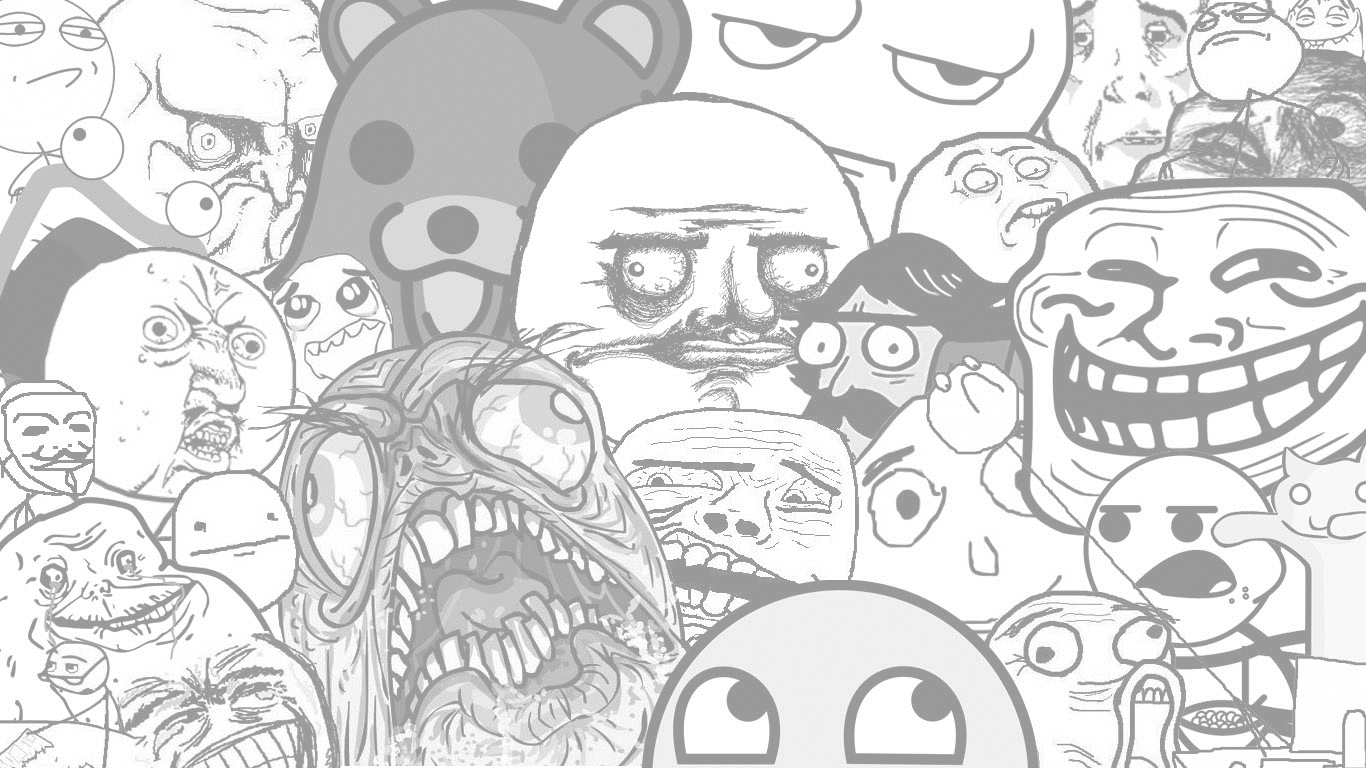
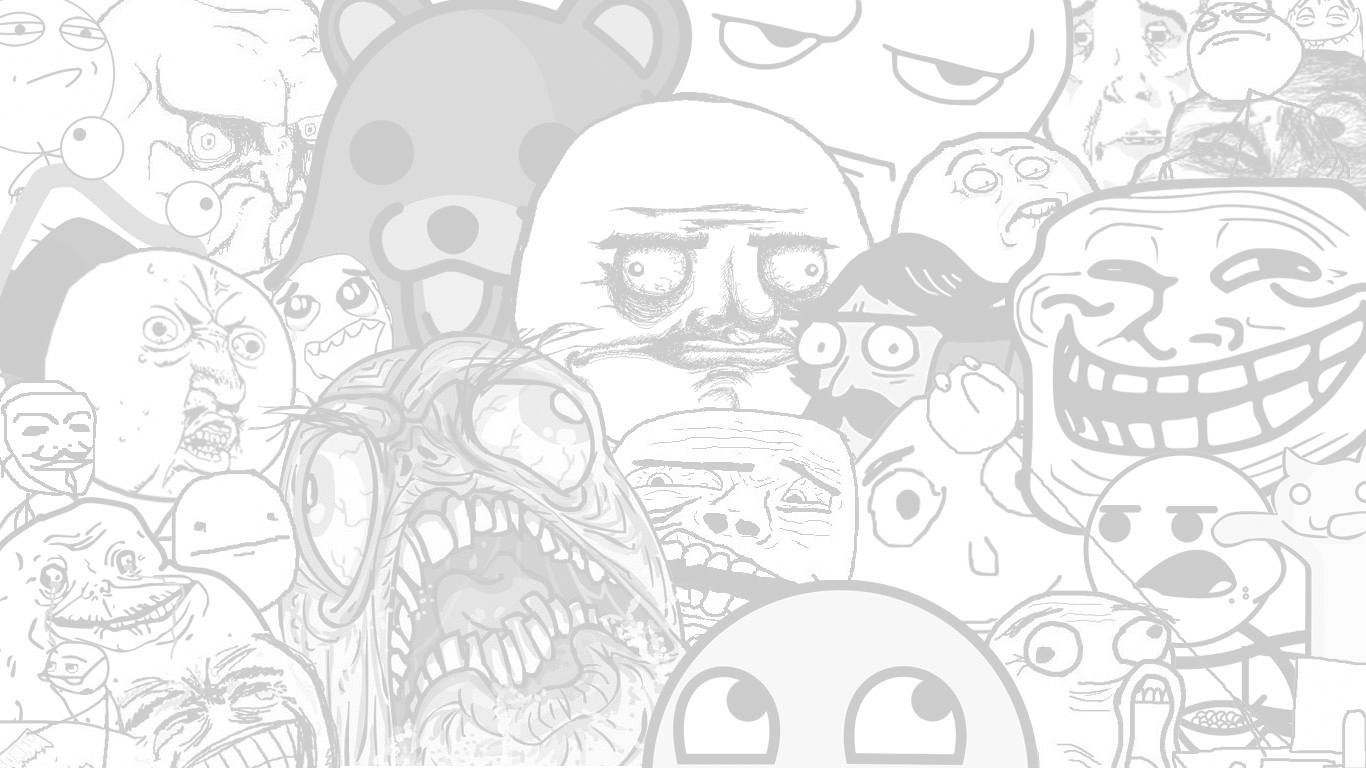
corrections to register form styling

diff --git a/public/app/views/register.html b/public/app/views/register.html
@@ -46,18 +46,10 @@
                     </div>
                     <div class="form-group">
                         <label class="control-label col-sm-2">profile pic:</label>
-                        <div class="sol-sm-10">
-                            <!--label class="btn btn-default btn-file" style="top:10px;left:5%;border:0;">
-                                <i class="fa fa-fw fa-camera"></i><input type="file" ngf-select ng-model="regData.picture" name="file"
-                                accept="image/*" ngf-max-size="2MB" required
-                                ngf-model-invalid="errorFile">
-                            </label-->
+                        <div class="col-sm-10">
                             <div ngf-drop ng-model="regData.picture" ngf-pattern="image/*" class="cropArea">
                                 <img-crop image="regData.picture  | ngfDataUrl" result-image="croppedDataUrl" ng-init="croppedDataUrl=''"></img-crop>
                             </div>
-                            <!--div>
-                                <img ng-src="{{croppedDataUrl}}" />
-                            </div-->
                         </div>
                     </div>
                     <div class="form-group">

diff --git a/public/app/views/password-forgot.html b/public/app/views/password-forgot.html
@@ -1,0 +1,26 @@
+<div class="row">
+    <div class="col-md-6 col-md-offset-3" style="padding-top:15%;">
+        <div class="panel panel-info">
+            <div class="panel-heading">
+                <div class="panel-title">Sign in</div>
+            </div>
+            <div class="panel-body">
+                <form class="form-horizontal" ng-submit="recoverPassword()" novalidate>
+                    <div class="form-group">
+                        <label class="control-label col-sm-2" for="">email:</label>
+                        <div class="col-sm-10">
+                            <input class="form-control" type="email" name="email" ng-model="email">
+                        </div>
+                    </div>
+                    <div class="form-group">
+                        <div class="col-sm-offset-2 col-sm-10">
+                            <button type="submit" class="btn btn-primary">Send me a reminder</button>
+                        </div>
+                    </div>
+                </form>
+                <hr>
+                Don't have an account? <a href="/#/register">Sign up here</a>
+            </div>
+        </div>
+    </div>
+</div>

diff --git a/public/app/app.js b/public/app/app.js
@@ -63,6 +63,14 @@ app.config(function($stateProvider, $urlRouterProvider, $authProvider) {
                 skipIfLoggedIn: skipIfLoggedIn
             }
         })
+        .state('passwordForgot', {
+            url: '/forgot-password',
+            templateUrl: 'app/views/password-forgot.html',
+            controller: 'PasswordForgotController as PasswordForgot',
+            resolve: {
+                skipIfLoggedIn: skipIfLoggedIn
+            }
+        })
         .state('logout', {
             url: '/logout',
             templateUrl: null,
@@ -142,7 +150,7 @@ app.controller('MemefyController', function($scope, $auth, $state, $http, Upload
         });
     };
 
-    $scope.likePost = function(postId) {
+    $scope.likes = function(postId) {
         
     };
 
@@ -222,7 +230,11 @@ app.controller('RegisterController', function($scope, $http, $auth, $state, Uplo
                 $scope.progress = parseInt(100.0 * evt.loaded / evt.total);
             });
         }
+    };
+});
 
+app.controller('PasswordForgotController', function() {
+    $scope.recoverPassword = function() {
     };
 });
 

diff --git a/public/app/views/memefy.html b/public/app/views/memefy.html
@@ -46,7 +46,7 @@
                 </div>
                 <div class="row">
                     <div class="btn-group col-sm-3">
-                        <button class="btn btn-default btn-social" type="button"><i class="fa fa-fw fa-heart"></i></button>
+                        <button class="btn btn-default btn-social" type="button" ng-click="like(post.id)"><i class="fa fa-fw fa-heart"></i></button>
                         <button class="btn btn-default btn-social" type="button"><i class="fa fa-fw fa-like"></i></button>
                         <button class="btn btn-default btn-social" type="button"><i class="fa fa-fw fa-like"></i></button>
                     </div>

diff --git a/resources/views/welcome.blade.php b/resources/views/welcome.blade.php
@@ -19,6 +19,9 @@
             body {
                 padding-top: 65px;
                 margin: 0;
+                background-image: url('/img/meme-bg.png');
+                background-size: cover;
+                background-position: center;
                 background-repeat: no-repeat;
                 background-attachment: fixed;
             }
@@ -126,10 +129,14 @@
                 display: block;
             }
             .cropArea {
-                background: #E4E4E4;
+                background: #fff;
                 overflow: hidden;
                 width:250px;
                 height:200px;
+                background-image: url('/img/add-file.jpg');
+                background-size: 75px;
+                background-position: center;
+                background-repeat: no-repeat;
             }
         </style>
     </head>
@@ -161,20 +168,20 @@
                                                 <div class="form-group">
                                                     <label class="sr-only" for="exampleInputPassword2">Password</label>
                                                     <input type="password" class="form-control" id="exampleInputPassword2" placeholder="Password" ng-model="login.password" required>
-                                                    <div class="help-block text-right"><a href="">Forget the password ?</a></div>
+                                                    <!--div class="help-block text-right"><a href="">Forget the password ?</a></div-->
                                                 </div>
                                                 <div class="form-group">
                                                     <button type="submit" class="btn btn-primary btn-block">Sign in</button>
                                                 </div>
-                                                <div class="checkbox">
+                                                <!--div class="checkbox">
                                                     <label>
                                                         <input type="checkbox"> keep me logged-in
                                                     </label>
-                                                </div>
+                                                </div-->
                                             </form>
                                         </div>
                                         <div class="bottom text-center">
-                                            New here ? <a href="#"><b>Join Us</b></a>
+                                            New here ? <a href="/#!/register"><b>Join Us</b></a>
                                         </div>
                                     </div>
                                 </li>

diff --git a/app/Http/Controllers/PostController.php b/app/Http/Controllers/PostController.php
@@ -6,6 +6,9 @@ use Illuminate\Http\Request;
 use Auth;
 use App\Post;
 use App\Photo;
+use App\Video;
+use App\Like;
+use App\Comment;
 
 class PostController extends Controller
 {
@@ -21,7 +24,7 @@ class PostController extends Controller
      */
     public function index()
     {
-        $posts = Post::orderBy('created_at','desc')->with('user')->with('photos')->get();
+        $posts = Post::orderBy('created_at','desc')->with('user')->with('photos')->with('videos')->with('comments')->with('likes')->get();
 
         return response()->json($posts);
     }
